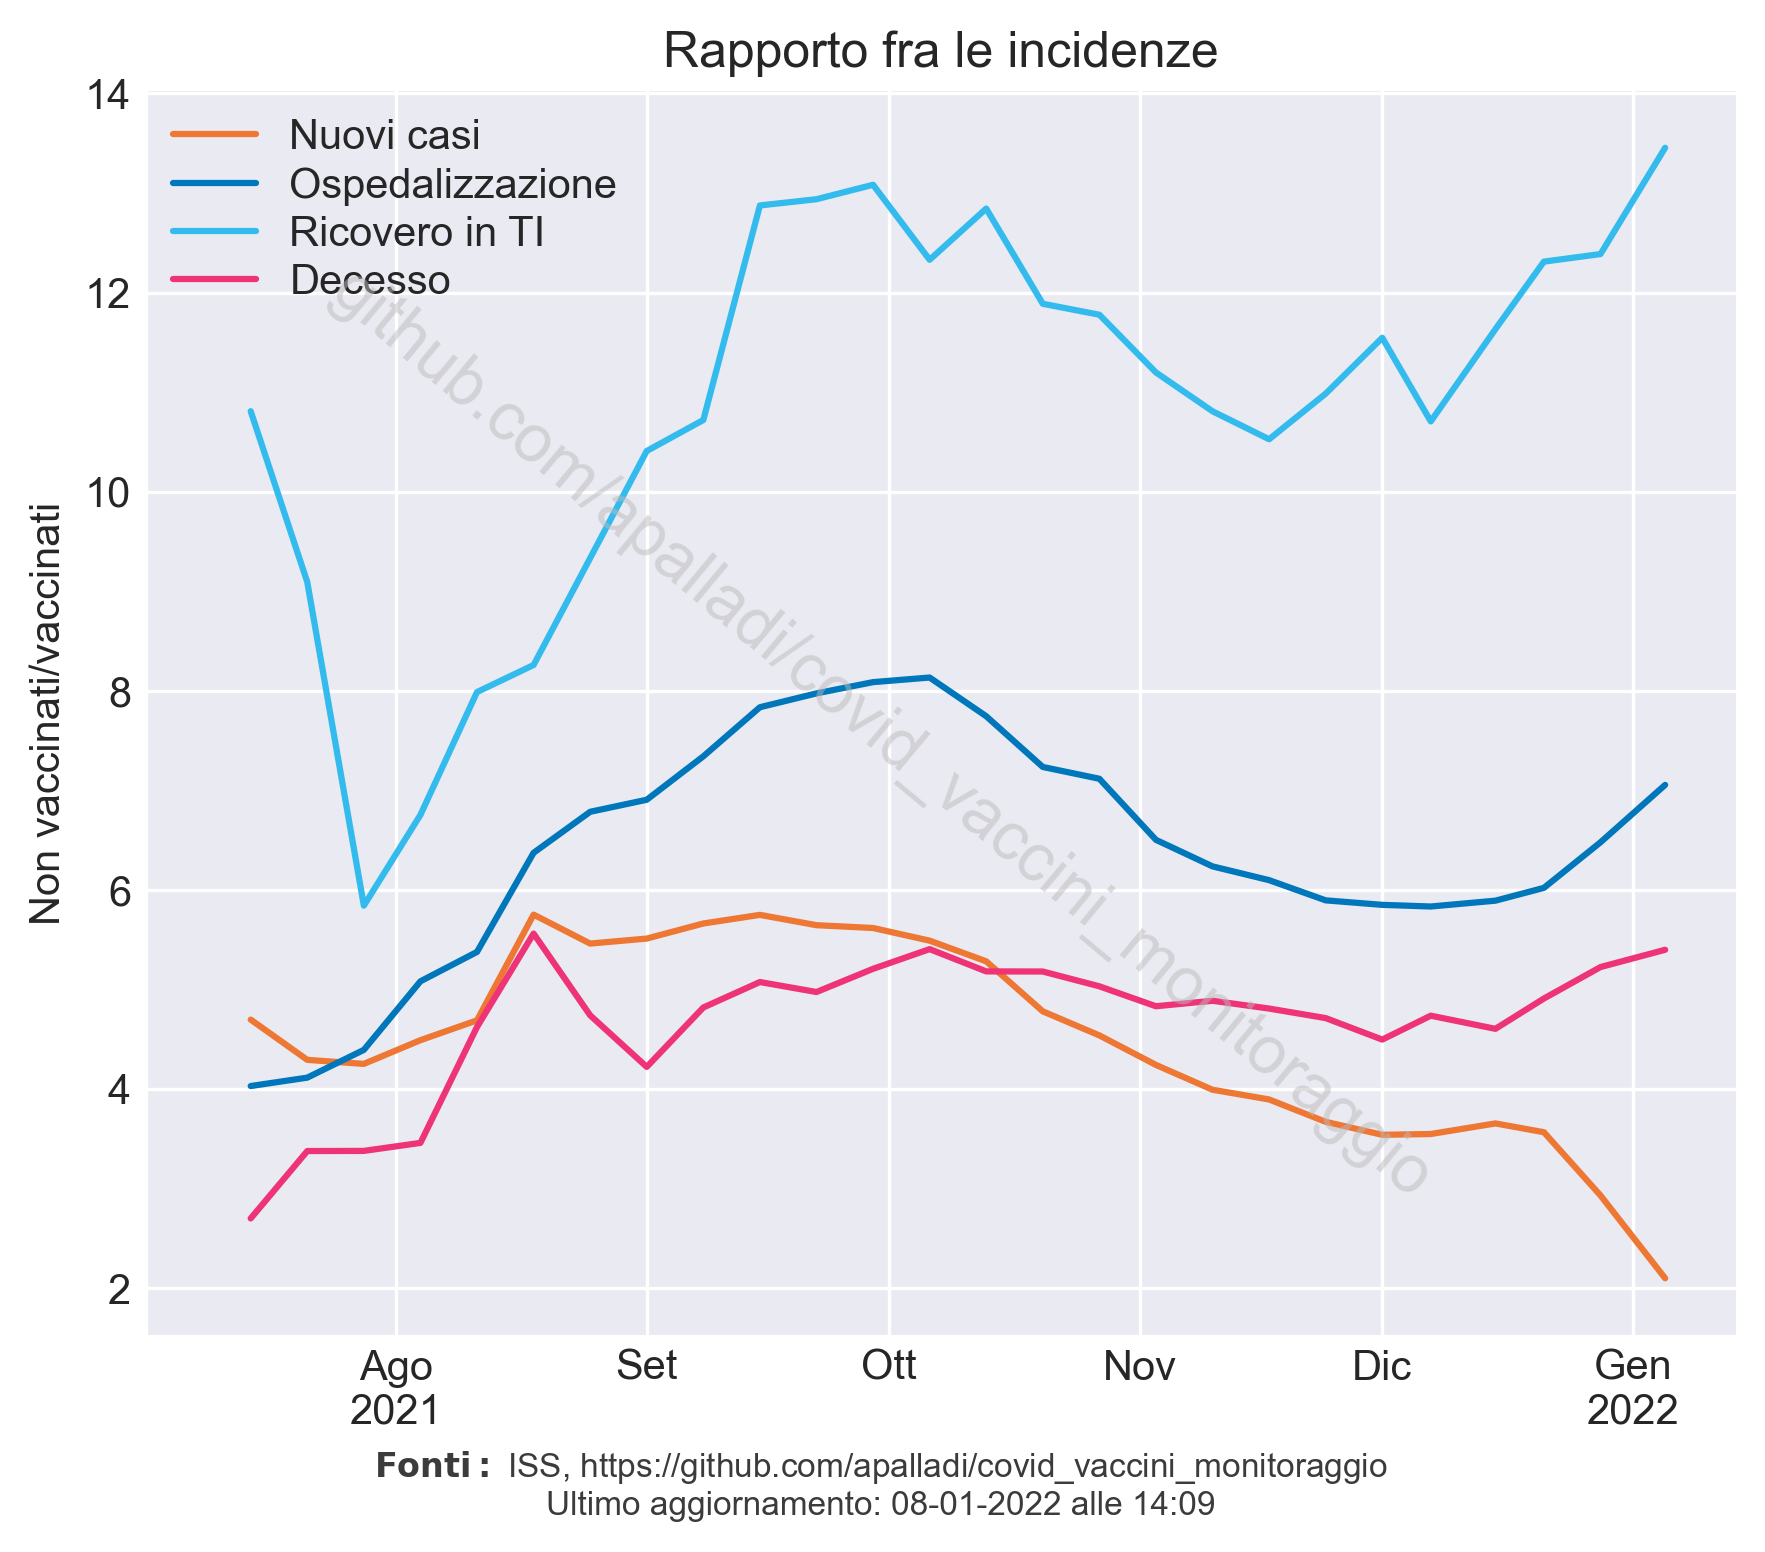
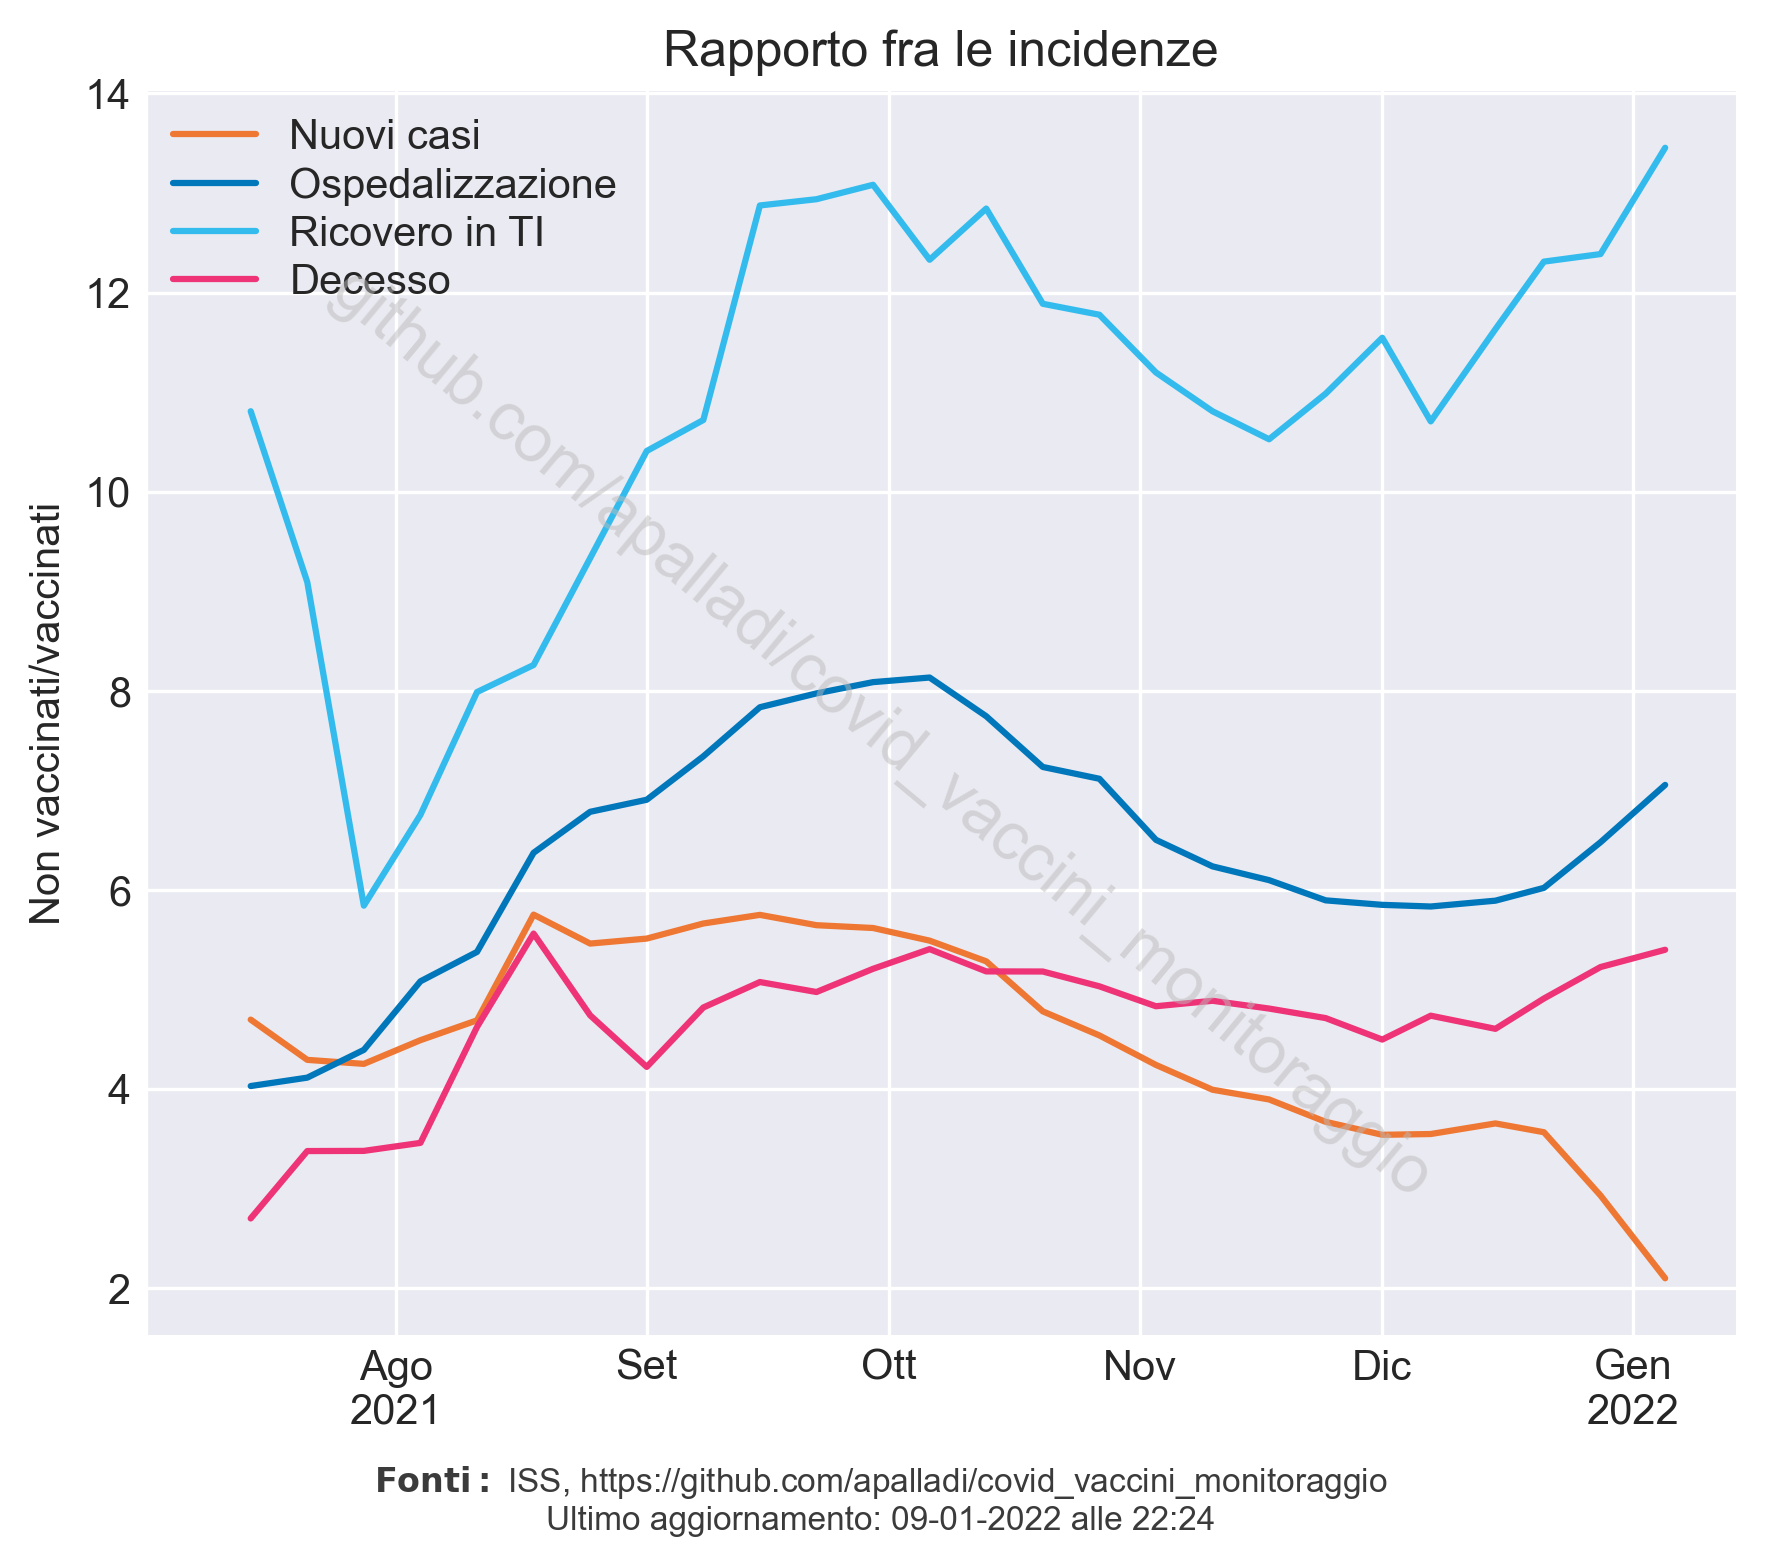
rapporto_tra_tassi: aumenta distanza fonte

diff --git a/scripts/andamento_epidemia.py b/scripts/andamento_epidemia.py
@@ -185,7 +185,7 @@ def plot_rapporto_tassi(show=False):
 
     # Add watermarks
     add_watermark(fig)
-    add_last_updated(fig, ax)
+    add_last_updated(fig, ax, y=-0.030)
 
     fig.savefig("../risultati/rapporto_tra_tassi.png",
                 dpi=300,
